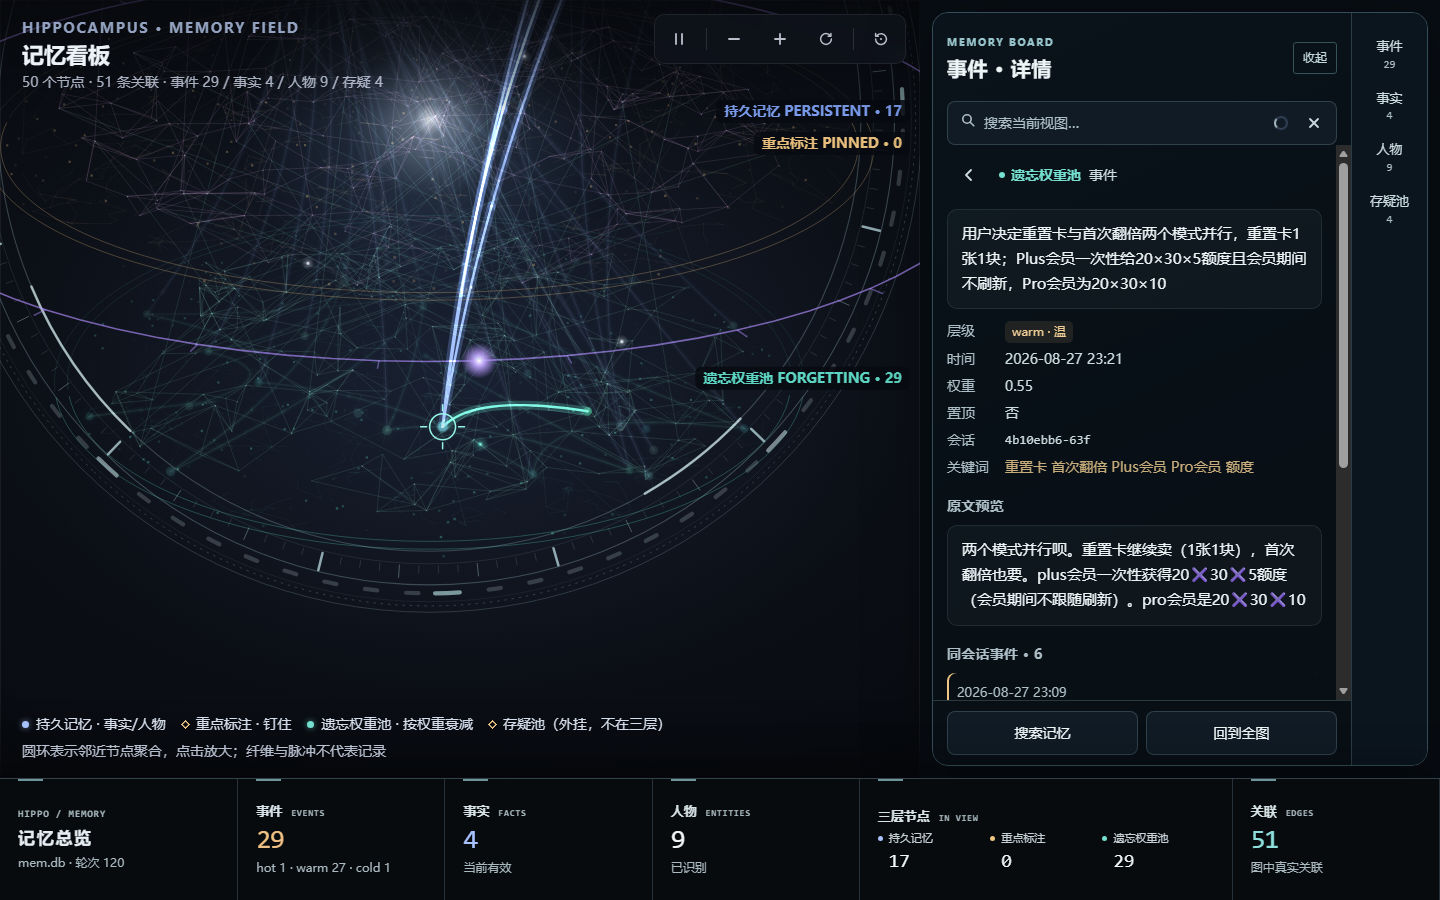
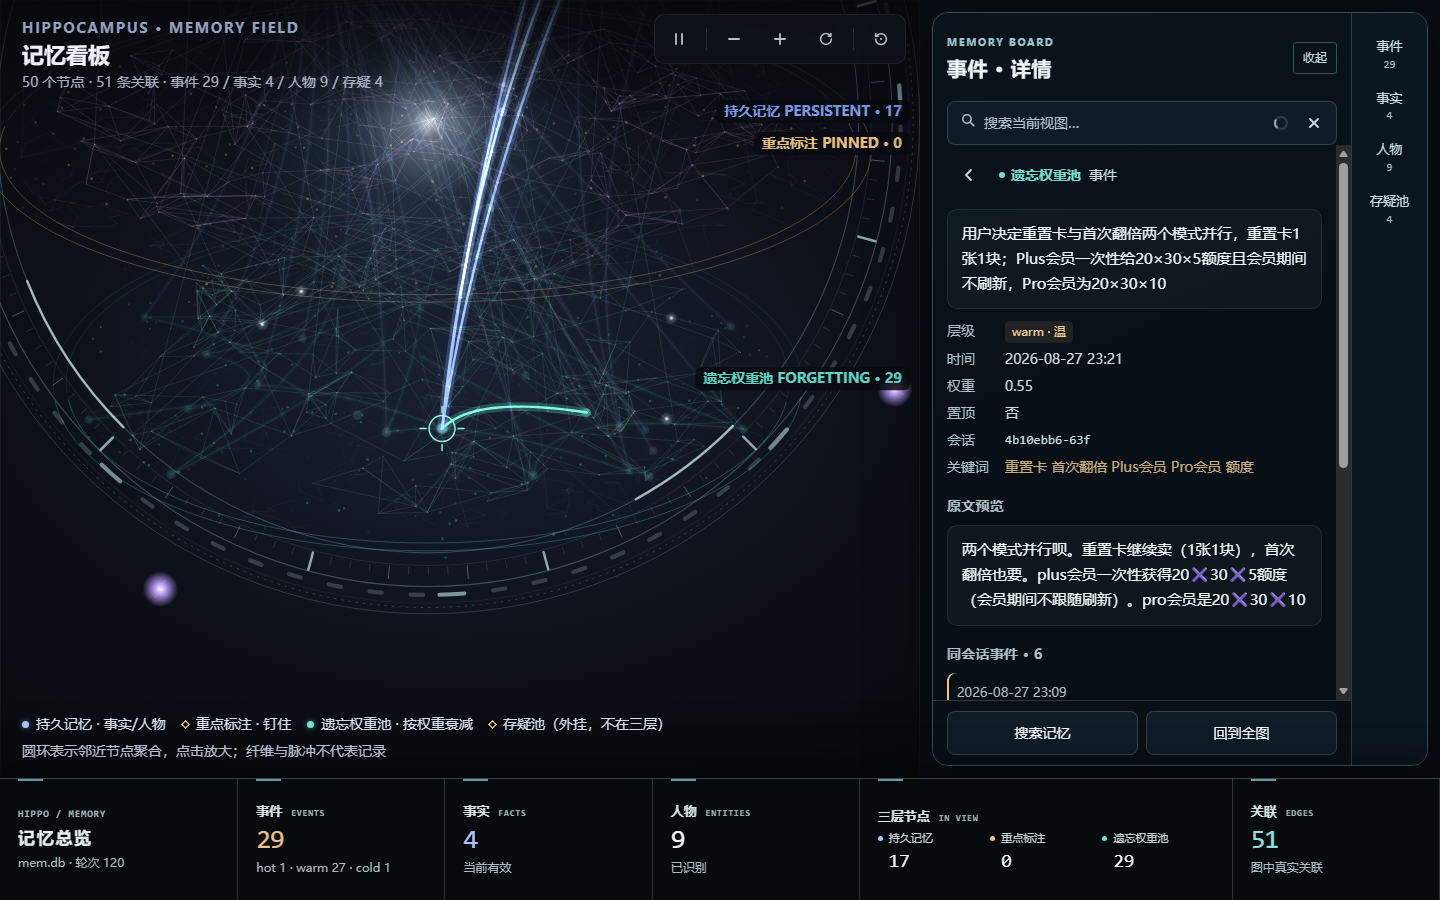
feat(M30): 存疑星环外移 + 平面拖拽旋转（不倾斜场景）

diff --git a/hippo/data/board.html b/hippo/data/board.html
@@ -566,6 +566,10 @@ class NeuralEngine {
     this.returning = false;
     this.autoRotate = !opts.reducedMotion;
     this.time = 0; this.ringPhase = 0; this.last = 0;
+    // 存疑星环：平面拖拽角度（只转，不倾斜）
+    this.ringAngle = 0;
+    this.ringDrag = false;
+    this.ringStart = 0;
     this.raf = 0; this.running = false; this.dirty = true; this.visible = true;
     this.selected = -1; this.hover = -1;
     this.fading = -1; this.fadeUntil = 0;
@@ -866,6 +870,16 @@ class NeuralEngine {
         this.pinch = Math.hypot(a.x - b.x, a.y - b.y);
       }
       this.press = { x: p.x, y: p.y, t: performance.now(), moved: false, button: e.button, shift: e.shiftKey };
+      // 星环平面拖拽：按在环附近 → 只转环，不倾斜场景。
+      this.ringDrag = false;
+      if (this.doubts.length) {
+        const cx = this.somaScreen.x, cy = this.somaScreen.y;
+        const dist = Math.hypot(p.x - cx, p.y - cy);
+        if (Math.abs(dist - this.ringRadius()) < 70) {
+          this.ringDrag = true;
+          this.ringStart = Math.atan2(p.y - cy, p.x - cx);
+        }
+      }
       this.yawTarget = null;
       this.focusTarget = null;
       this.returning = false;
@@ -886,6 +900,19 @@ class NeuralEngine {
       }
       const dx = p.x - prev.x, dy = p.y - prev.y;
       if (this.press && Math.hypot(p.x - this.press.x, p.y - this.press.y) > 4) this.press.moved = true;
+      if (this.ringDrag) {
+        // 平面转：按圆心的极角差更新，不碰 yaw/pitch。
+        const cx = this.somaScreen.x, cy = this.somaScreen.y;
+        const a = Math.atan2(p.y - cy, p.x - cx);
+        let d = a - this.ringStart;
+        if (d > Math.PI) d -= TAU;
+        if (d < -Math.PI) d += TAU;
+        this.ringAngle += d;
+        this.ringStart = a;
+        this.hideTooltip();
+        this.invalidate();
+        return;
+      }
       if (this.press && (this.press.button === 1 || this.press.button === 2 || this.press.shift)) {
         this.panX += dx; this.panY += dy;
       } else {
@@ -1079,6 +1106,11 @@ class NeuralEngine {
     return (1.6 + nd.weight * 2.0) * Math.max(0.6, this.nsp[i] * this.fBase * this.zoom * 1.15);
   }
 
+  ringRadius() {
+    // 存疑环：比装饰外环更外一圈，避免被中心记忆体压住。
+    return 300 * this.fBase * this.zoom * 1.28;
+  }
+
   nodeColor(i) {
     const nd = this.nodes[i];
     const w = Math.max(0, Math.min(1, nd.weight));
@@ -1211,55 +1243,46 @@ class NeuralEngine {
     this.drawSelection();
   }
 
-  // 存疑池星环：外挂的三维环，真实 doubts 节点，可点、随场旋转。
-  drawDoubtRing(project, dim) {
+  // 存疑池：挂在已有装饰星环上的节点（不新增环），可点、随环自转。
+  drawDoubtRing(_project, dim) {
     const { ctx } = this;
     const n = this.doubts.length;
     if (!n) return;
-    const R = 390, N = 96;
-    const tmp = new Float32Array(3);
+    const { x: cx, y: cy } = this.somaScreen;
+    // 存疑环：在装饰外环之外一圈；拖动时平面转（ringAngle），不倾斜。
+    const R = this.ringRadius();
     const spin = this.time * 0.06;
-    ctx.beginPath();
-    for (let i = 0; i <= N; i++) {
-      const a = (i / N) * TAU + spin;
-      project(Math.cos(a) * R, 0, Math.sin(a) * R, tmp, 0);
-      if (i === 0) ctx.moveTo(tmp[0], tmp[1]); else ctx.lineTo(tmp[0], tmp[1]);
-    }
-    ctx.strokeStyle = `rgba(177,141,255,${0.65 * dim})`;
-    ctx.lineWidth = 1.6;
-    ctx.stroke();
-    for (let i = 0; i < 24; i++) {
-      const a = (i / 24) * TAU + spin;
-      project(Math.cos(a) * R, 0, Math.sin(a) * R, tmp, 0);
-      const x1 = tmp[0], y1 = tmp[1];
-      project(Math.cos(a) * (R + 9), 0, Math.sin(a) * (R + 9), tmp, 0);
-      ctx.beginPath(); ctx.moveTo(x1, y1); ctx.lineTo(tmp[0], tmp[1]);
-      ctx.strokeStyle = `rgba(177,141,255,${0.45 * dim})`;
-      ctx.stroke();
-    }
     for (let i = 0; i < n; i++) {
-      const a = (i / n) * TAU + spin + 0.4;
-      project(Math.cos(a) * R, 0, Math.sin(a) * R, tmp, 0);
-      this.doubtScr[i] = { x: tmp[0], y: tmp[1], z: tmp[2] };
+      const a = (i / n) * TAU + spin + this.ringAngle - Math.PI / 2 + 0.35;
+      const x = cx + Math.cos(a) * R;
+      const y = cy + Math.sin(a) * R;
+      this.doubtScr[i] = { x, y, z: 0 };
       const near = this.doubtHover === i;
       const r = near ? 10 : 7.5;
-      const grad = ctx.createRadialGradient(tmp[0], tmp[1], 0, tmp[0], tmp[1], r * 2.4);
+      const grad = ctx.createRadialGradient(x, y, 0, x, y, r * 2.4);
       grad.addColorStop(0, "rgba(255,255,255,1)");
       grad.addColorStop(.3, `rgba(196,166,255,${0.95 * dim})`);
       grad.addColorStop(1, "rgba(177,141,255,0)");
       ctx.fillStyle = grad;
-      ctx.beginPath(); ctx.arc(tmp[0], tmp[1], r * 2.4, 0, TAU); ctx.fill();
+      ctx.beginPath(); ctx.arc(x, y, r * 2.4, 0, TAU); ctx.fill();
+      // 环上小刻度（贴合装饰环，表明这是存疑节点位）
+      ctx.beginPath();
+      ctx.moveTo(cx + Math.cos(a) * (R - 10), cy + Math.sin(a) * (R - 10));
+      ctx.lineTo(cx + Math.cos(a) * (R + 10), cy + Math.sin(a) * (R + 10));
+      ctx.strokeStyle = `rgba(196,166,255,${0.4 * dim})`;
+      ctx.lineWidth = 1;
+      ctx.stroke();
       if (near) {
         ctx.font = "500 12px ui-monospace, Consolas, monospace";
         const label = String(this.doubts[i].question || "").slice(0, 36);
         const tw = ctx.measureText(label).width;
         ctx.fillStyle = "rgba(10,15,24,.85)";
         ctx.beginPath();
-        if (ctx.roundRect) ctx.roundRect(tmp[0] + 12, tmp[1] - 10, tw + 14, 24, 6);
-        else ctx.rect(tmp[0] + 12, tmp[1] - 10, tw + 14, 24);
+        if (ctx.roundRect) ctx.roundRect(x + 12, y - 10, tw + 14, 24, 6);
+        else ctx.rect(x + 12, y - 10, tw + 14, 24);
         ctx.fill();
         ctx.fillStyle = "rgba(238,245,251,.95)";
-        ctx.fillText(label, tmp[0] + 19, tmp[1] + 6);
+        ctx.fillText(label, x + 19, y + 6);
       }
     }
   }
@@ -1275,7 +1298,7 @@ class NeuralEngine {
       ctx.lineWidth = Math.max(0.55, width * scale);
       ctx.strokeStyle = `rgba(169,202,214,${alpha * dim})`; ctx.stroke();
     }
-    const offset = this.ringPhase + this.yaw * 0.08;
+    const offset = this.ringPhase + this.yaw * 0.08 + this.ringAngle;
     for (let i = 0; i < 144; i++) {
       const angle = i / 144 * TAU + offset, major = i % 12 === 0, medium = i % 4 === 0;
       const inner = radius * 1.06, outer = radius * (major ? 1.102 : medium ? 1.09 : 1.077);
